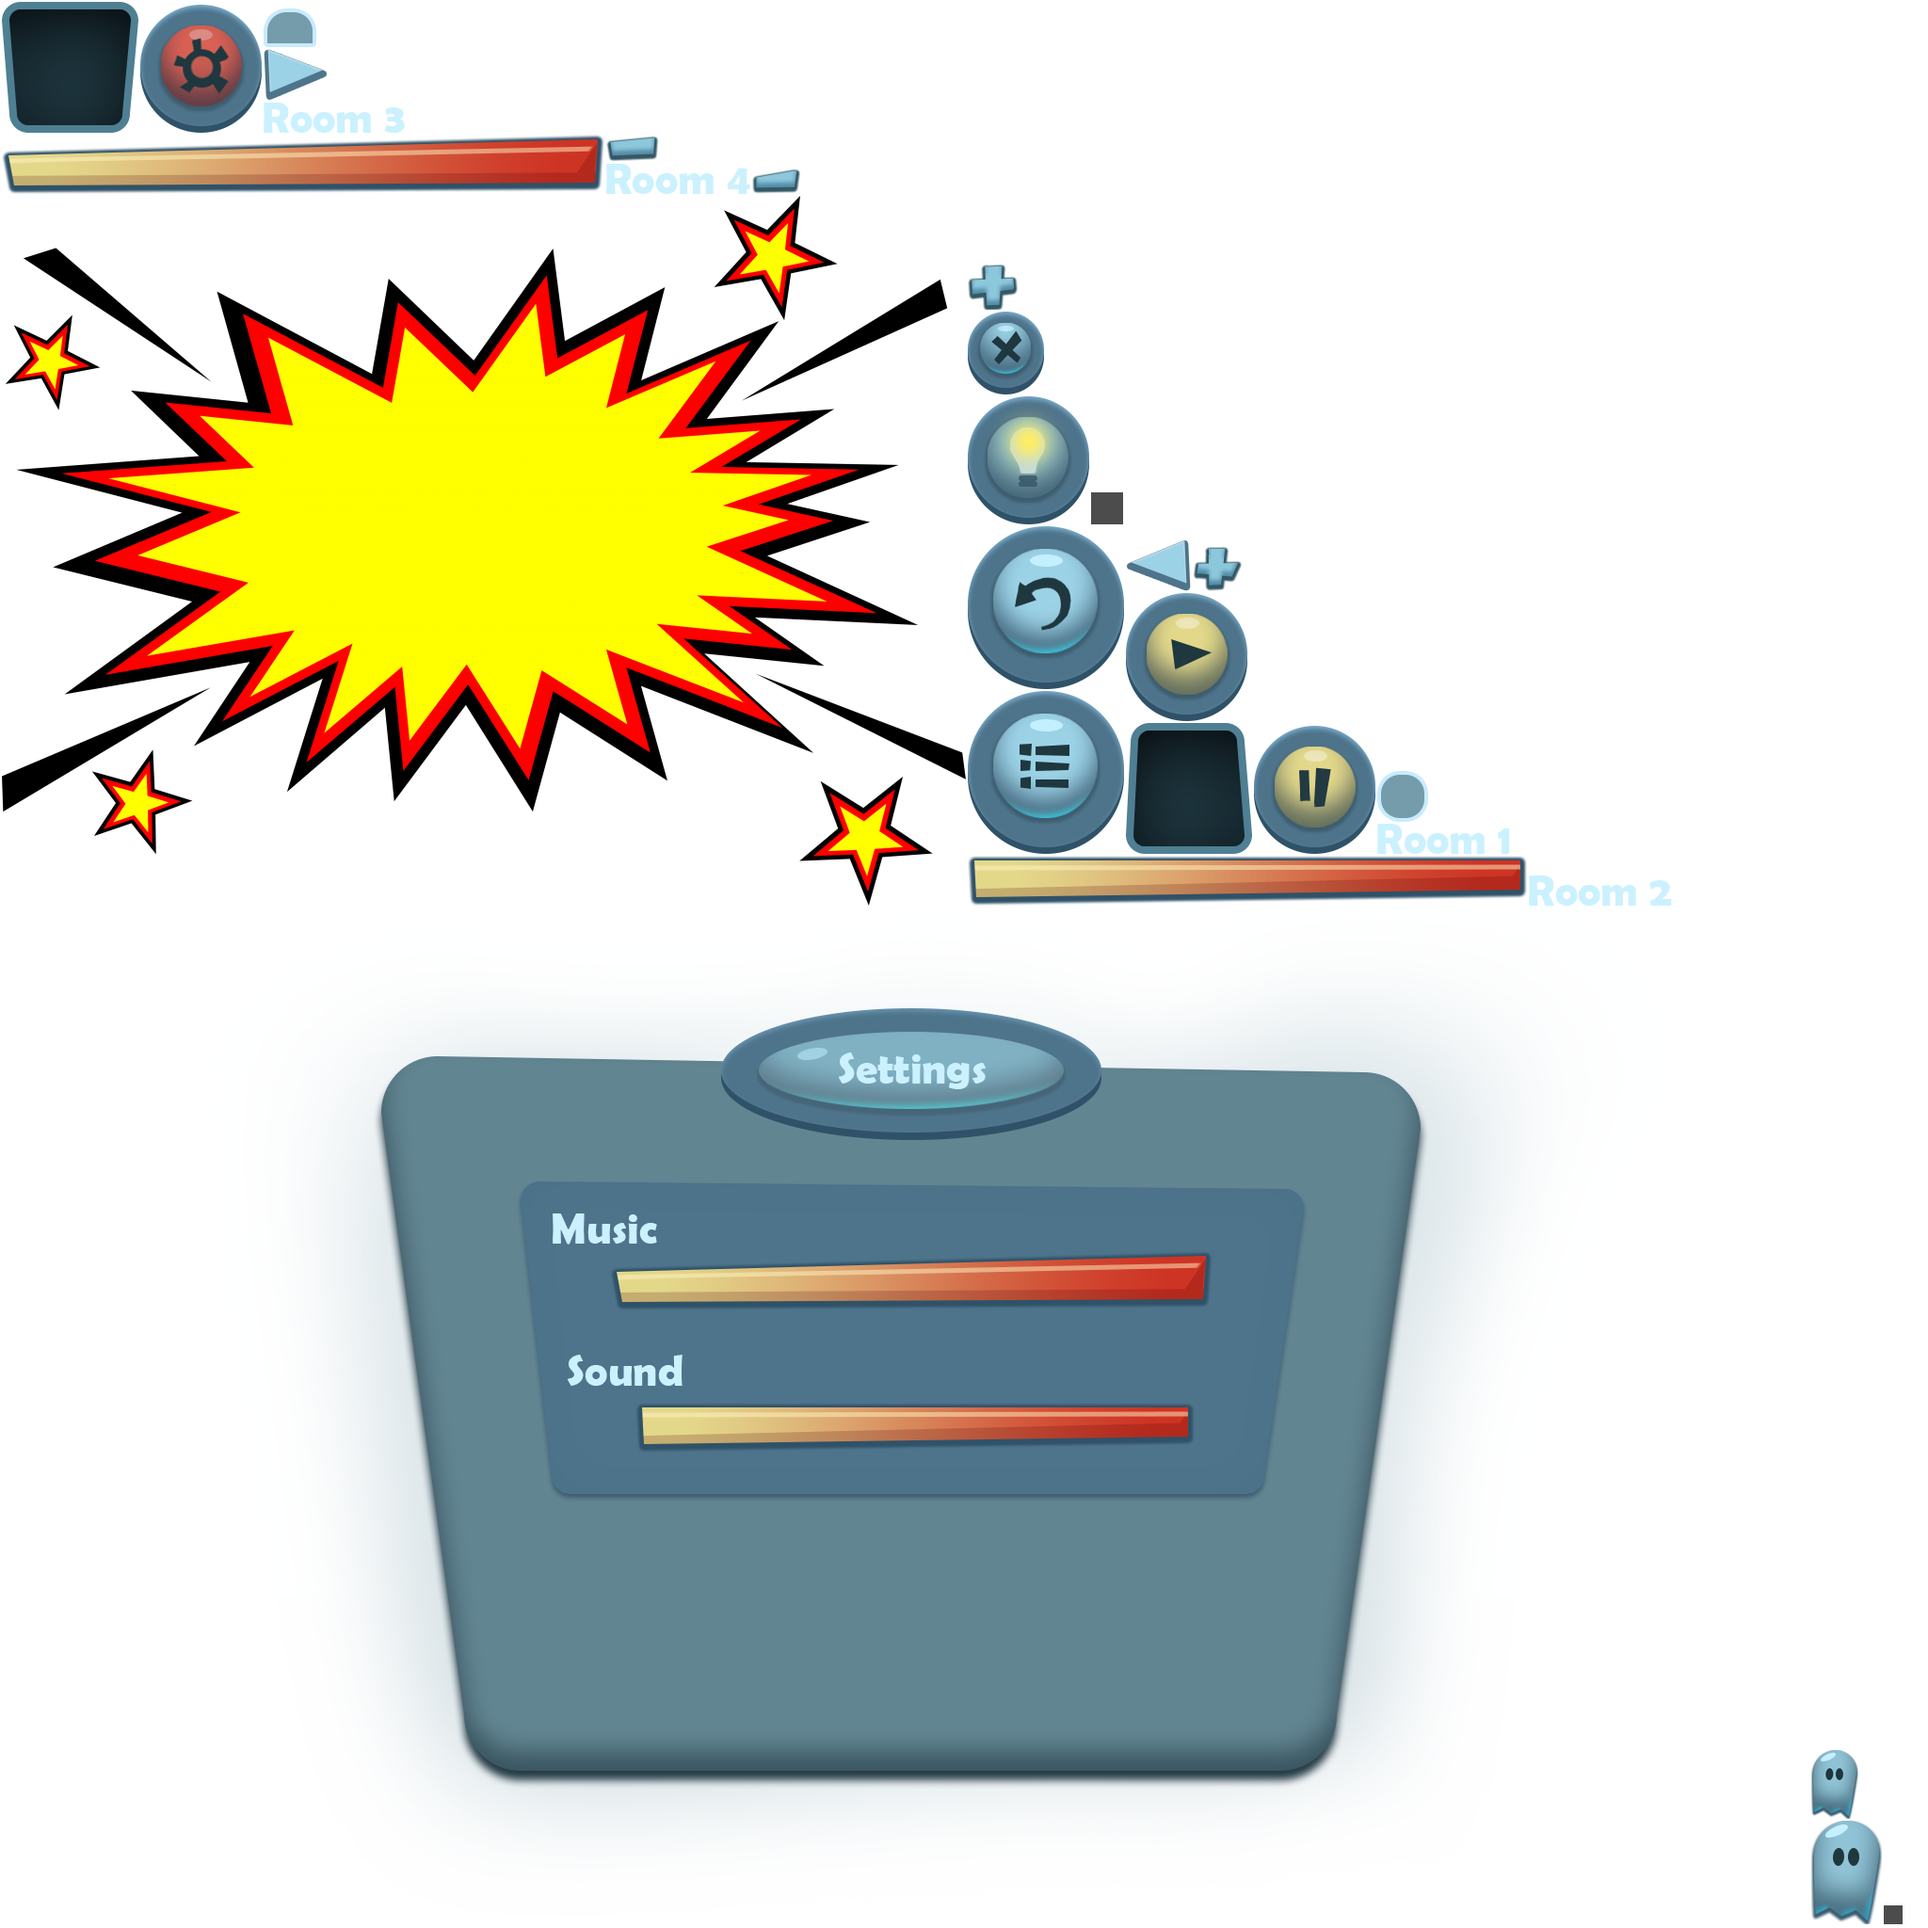
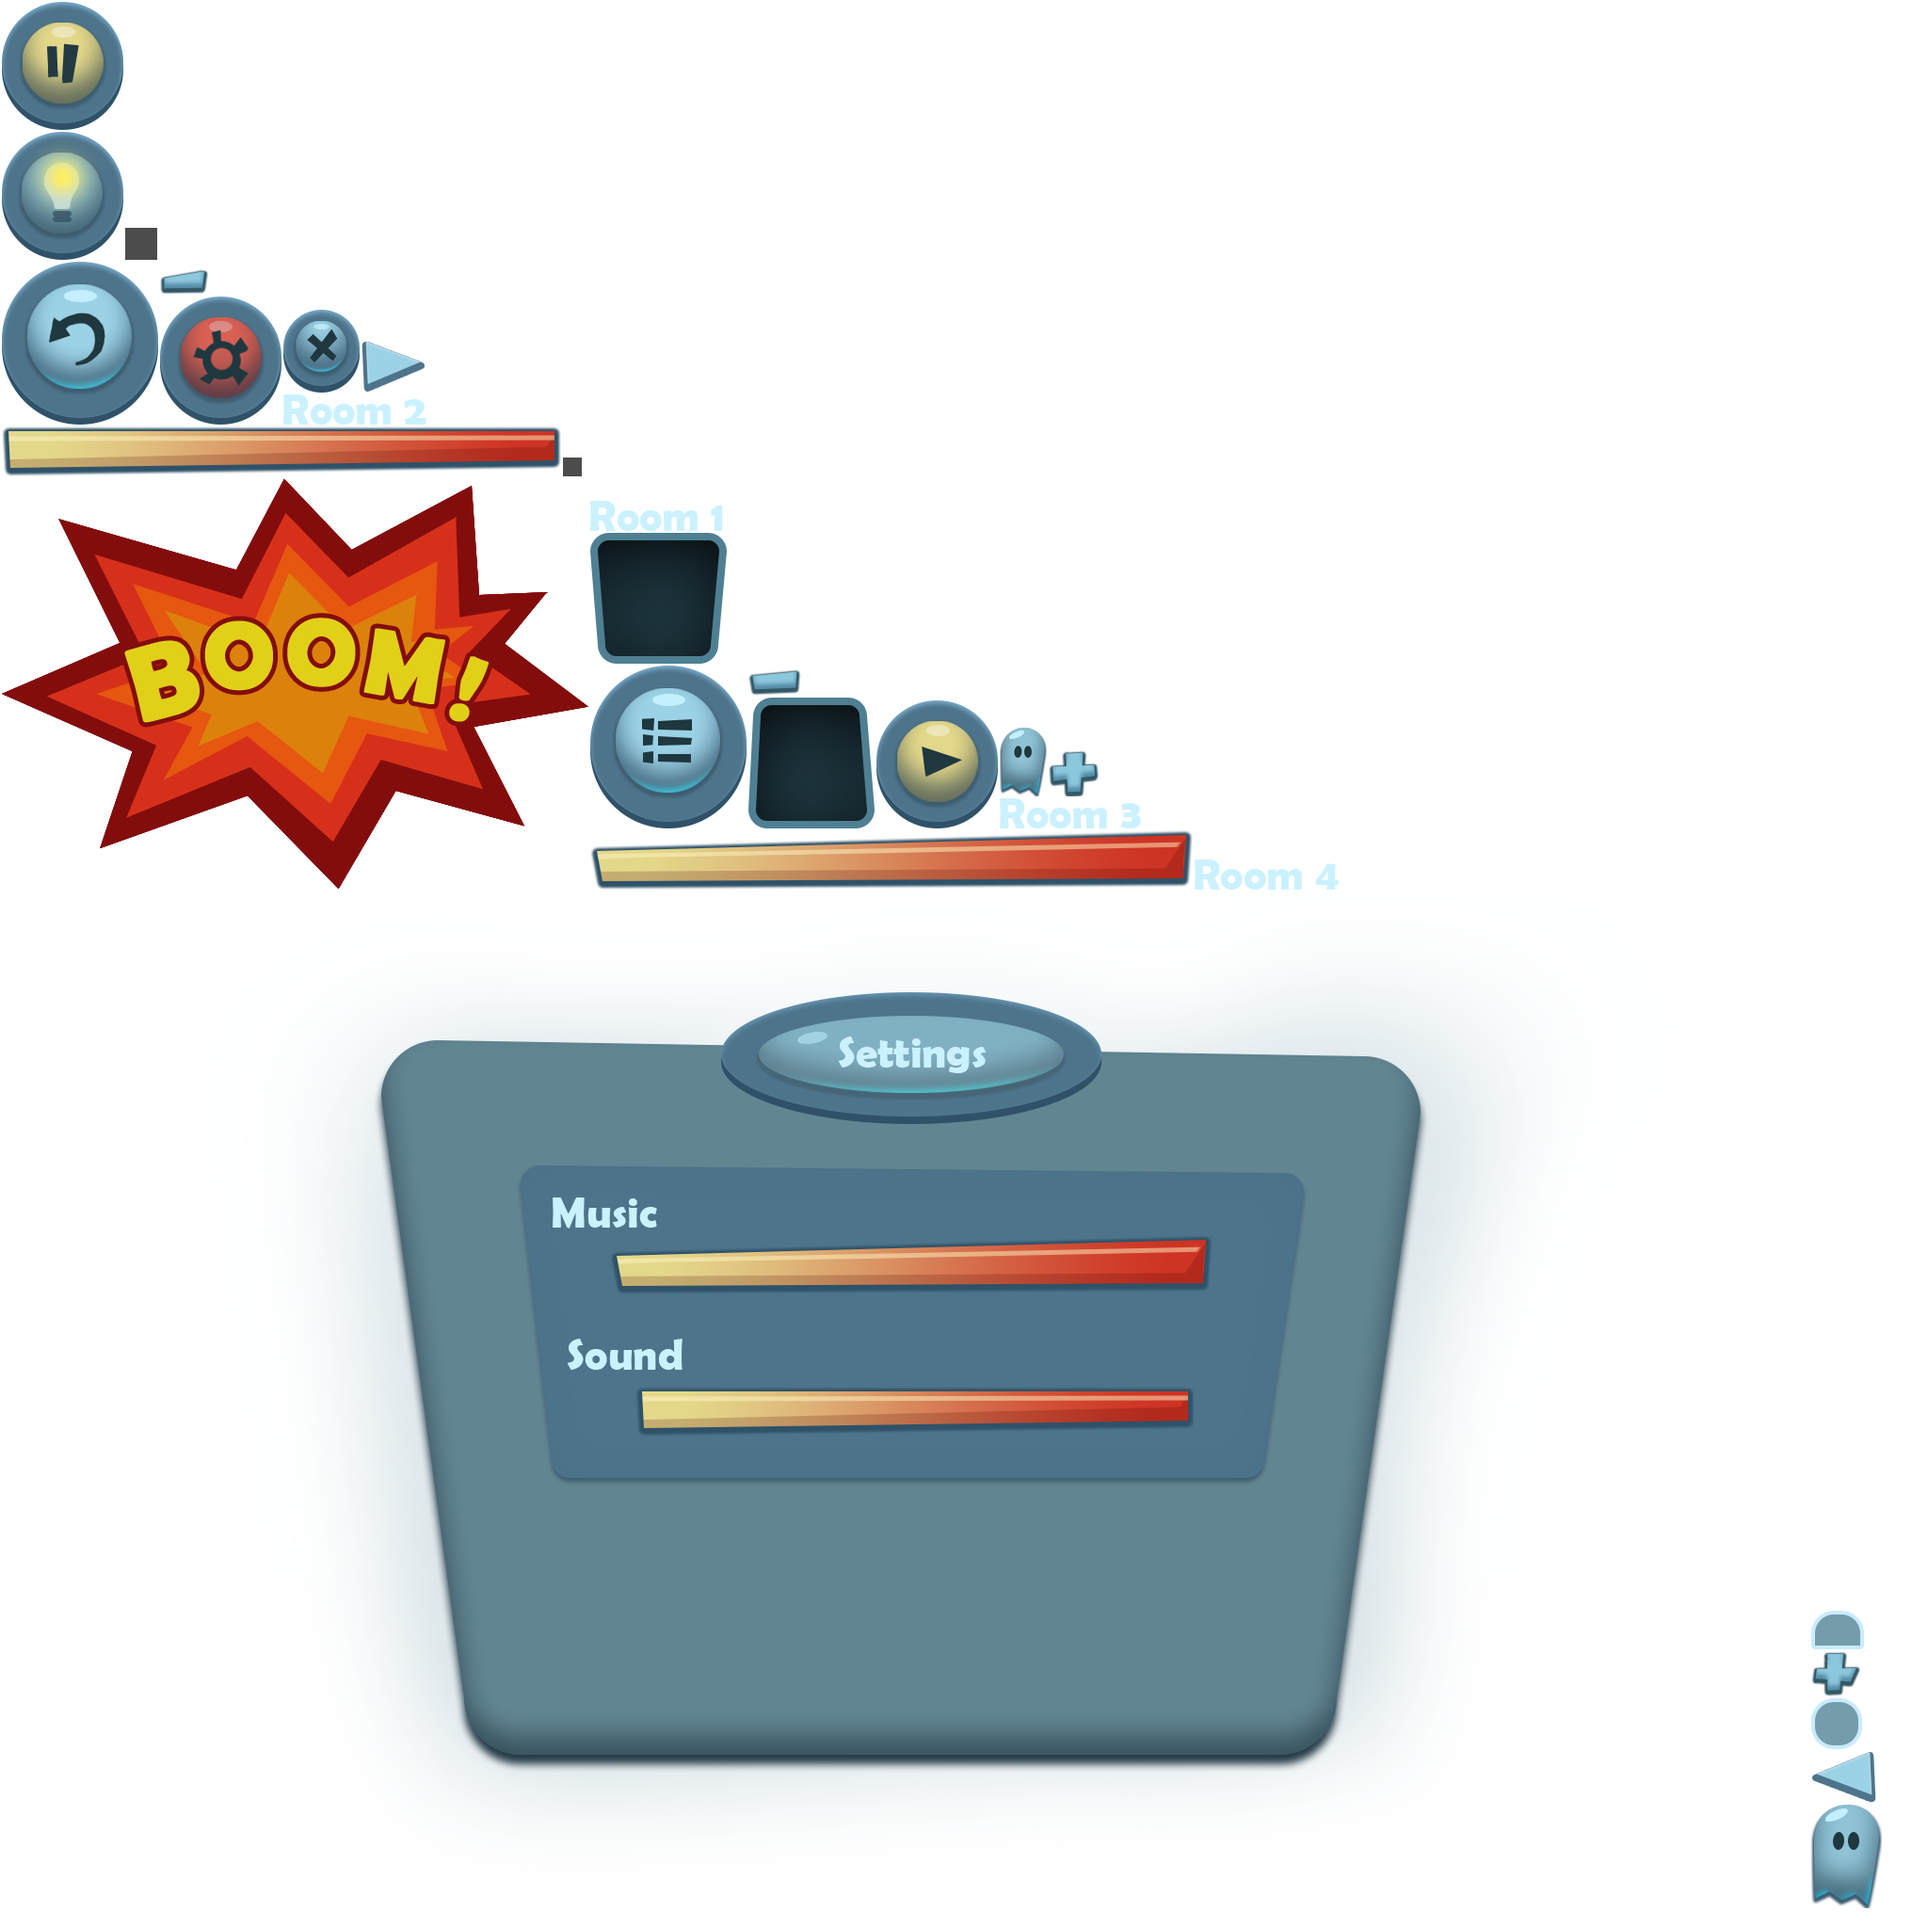
Added boom

diff --git a/core/src/com/rockbite/inetrnship/ghosthouse/MainUI.java b/core/src/com/rockbite/inetrnship/ghosthouse/MainUI.java
@@ -53,7 +53,7 @@ public class MainUI extends Stage {
     PositionComponent pos = new PositionComponent(0, 0, 0);
     SizeComponent size = new SizeComponent(0, 0);
     Vector2 step = new Vector2(60 * Gdx.graphics.getWidth() / 800, 66 * Gdx.graphics.getWidth() / 800);
-   public static Image BOOM;
+   public Image BOOM;
     public MainUI(GhostHouse ghostHouse) {
         assetLoader = ghostHouse.assetLoader;
         this.ghostHouse = ghostHouse;
@@ -114,7 +114,7 @@ public class MainUI extends Stage {
         Image text = new Image(atlas.findRegion("Room" + 1));
        BOOM=new Image(atlas.findRegion("boom"));
         BOOM.setScale(scalex, scaley);
-        BOOM.setPosition(Gdx.graphics.getWidth()/2f, Gdx.graphics.getHeight()/2f);
+        BOOM.setPosition(Gdx.graphics.getWidth()/10f, Gdx.graphics.getHeight()/10f);
         NinePatch spatch = new NinePatch(atlas.createPatch("black"));
         spatch.setMiddleWidth(Gdx.graphics.getWidth() - spatch.getTotalWidth() + spatch.getMiddleWidth());
         spatch.setMiddleHeight(Gdx.graphics.getHeight() - spatch.getTotalHeight() + spatch.getMiddleHeight());

diff --git a/core/src/com/rockbite/inetrnship/ghosthouse/GhostHouse.java b/core/src/com/rockbite/inetrnship/ghosthouse/GhostHouse.java
@@ -2,12 +2,13 @@ package com.rockbite.inetrnship.ghosthouse;
 
 import com.badlogic.gdx.ApplicationAdapter;
 import com.badlogic.gdx.Gdx;
+import com.rockbite.inetrnship.ghosthouse.data.GhostMesh;
 
 public class GhostHouse extends ApplicationAdapter {
 
     SaveDataLoader saveData;
     AssetLoader assetLoader;
-
+int j=0;
     static boolean isLoaded = true;
 
     public MainUI mainUI;
@@ -33,7 +34,12 @@ public class GhostHouse extends ApplicationAdapter {
             }
 
             mainUI.act();
-
+if(mainGame.boom){
+   // mainUI.BOOM.setScale(0.5f+j*0.01f);
+    GhostMesh.lightColor.set(j, 0,0);
+    mainUI.BOOM.scaleBy(0.01f);
+    j++;
+}
             mainGame.render();
             mainUI.draw();
 

diff --git a/core/src/com/rockbite/inetrnship/ghosthouse/data/Room4.java b/core/src/com/rockbite/inetrnship/ghosthouse/data/Room4.java
@@ -27,12 +27,9 @@ public class Room4 extends Room {
                     case NONTAKEABLE:
 
                       //  GhostMesh.lightColor.set(255, 0,0);
-                        MainUI.BOOM.setVisible(false);
-                        mainGame.ghostHouse.mainUI.addActor(MainUI.BOOM);
-                        MainUI.BOOM.setVisible(true);
-                        for(int i=0; i<1000; i++){
-                            MainUI.BOOM.setScale(1+i*0.0f);
-                        }
+
+                        mainGame.ghostHouse.mainUI.addActor(mainGame.ghostHouse.mainUI.BOOM);
+                        mainGame.boom=true;
                 }
         }
     }

diff --git a/core/src/com/rockbite/inetrnship/ghosthouse/AssetLoader.java b/core/src/com/rockbite/inetrnship/ghosthouse/AssetLoader.java
@@ -54,10 +54,10 @@ public class AssetLoader extends AssetManager {
 //        room = saveLoad.load();
 
 
-//        TexturePacker.Settings settings = new TexturePacker.Settings();
-//     settings.maxHeight = 4096;
-//     settings.maxWidth = 4096;
-//        TexturePacker.process(settings,"Uipics", "Uipacked", "UI");
+        TexturePacker.Settings settings = new TexturePacker.Settings();
+     settings.maxHeight = 4096;
+     settings.maxWidth = 4096;
+        TexturePacker.process(settings,"Uipics", "Uipacked", "UI");
 
 //                TexturePacker.Settings settings = new TexturePacker.Settings();
 //     settings.maxHeight = 4096;

diff --git a/core/src/com/rockbite/inetrnship/ghosthouse/MainGame.java b/core/src/com/rockbite/inetrnship/ghosthouse/MainGame.java
@@ -29,7 +29,7 @@ public class MainGame {
     private AssetLoader assetLoader;
     public InputController inputController;
     private SaveDataLoader saveDataLoader;
-
+public boolean boom=false;
     public static boolean miniGameOn = false;
     private Array<Room> rooms;
     public static InputMultiplexer multiplexer = new InputMultiplexer();
